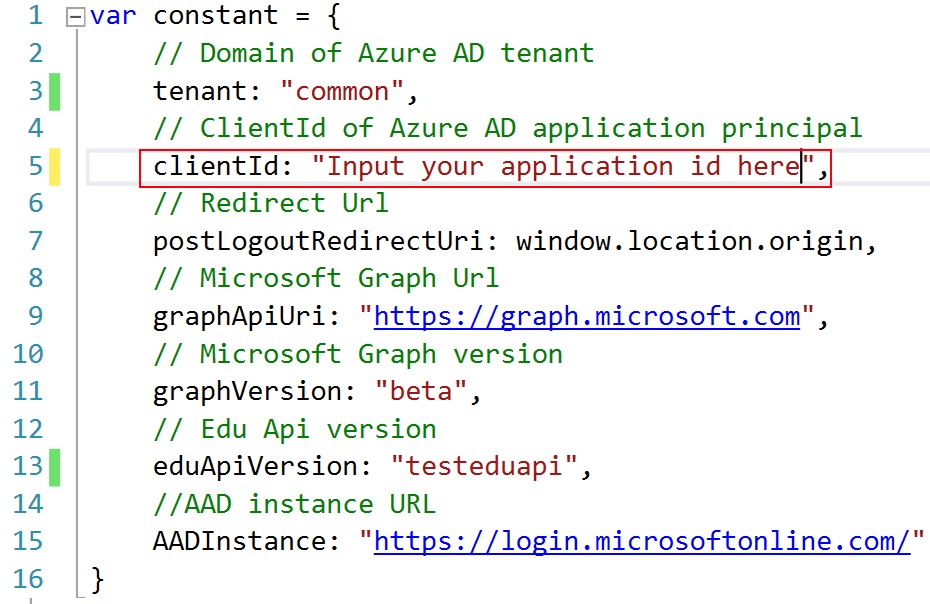
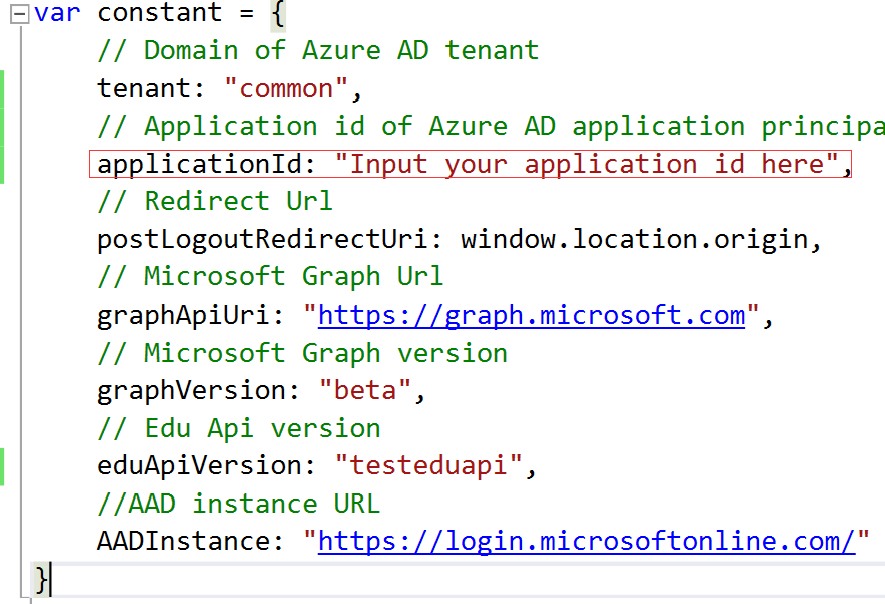
Update doc per feedback.

diff --git a/src/ShareToTeams/scripts/consent.js b/src/ShareToTeams/scripts/consent.js
@@ -1,7 +1,7 @@
 $(function () {
 
     $("#btnConsent").click(function () {
-        var url = constant.AADInstance + constant.tenant + "/oauth2/authorize?response_type=id_token&client_id=" + constant.clientId + "&redirect_uri=" + constant.postLogoutRedirectUri + "&state=" + guid() + "&client-request-id=" + guid() + "&x-client-SKU=Js&x-client-Ver=1.0.15&nonce=" + guid() + "&prompt=admin_consent";
+        var url = constant.AADInstance + constant.tenant + "/oauth2/authorize?response_type=id_token&client_id=" + constant.applicationId + "&redirect_uri=" + constant.postLogoutRedirectUri + "&state=" + guid() + "&client-request-id=" + guid() + "&x-client-SKU=Js&x-client-Ver=1.0.15&nonce=" + guid() + "&prompt=admin_consent";
         window.location.href = url;
     });
 

diff --git a/src/ShareToTeams/scripts/constant.js b/src/ShareToTeams/scripts/constant.js
@@ -1,8 +1,8 @@
 var constant = {
     // Domain of Azure AD tenant
     tenant: "common",
-    // ClientId of Azure AD application principal
-    clientId: "5261f827-718e-4e42-8baa-c548b9a1e0f7",
+    // Application id of Azure AD application principal
+    applicationId: "Input your application id here",
     // Redirect Url
     postLogoutRedirectUri: window.location.origin,
     // Microsoft Graph Url

diff --git a/src/ShareToTeams/scripts/sharetoteams.js b/src/ShareToTeams/scripts/sharetoteams.js
@@ -2,7 +2,7 @@
     // Create config and get AuthenticationContext
     window.config = {
         tenant: constant.tenant,
-        clientId: constant.clientId,
+        clientId: constant.applicationId,
         postLogoutRedirectUri: constant.postLogoutRedirectUri,
         cacheLocation: "localStorage",
         accessToken: "",

diff --git a/README.md b/README.md
@@ -26,7 +26,7 @@ The sample demonstrates:
 
 **Deploying and running this sample requires**:
 * An Azure subscription with permissions to register a new application, and deploy the web app.
-* SDS enabled is a prereq.  The user can use SDS, Teams or the Edu API to create Teams.  
+* Teacher must have associated classes to share as an Assignment.
 * An O365 Education tenant with Microsoft School Data Sync enabled
     * One of the following browsers: Edge, Internet Explorer 9, Safari 5.0.6, Firefox 5, Chrome 13, or a later version of one of these browsers.
       Additionally: Developing/running this sample locally requires the following:  
@@ -47,7 +47,7 @@ The sample demonstrates:
 
 4. Input a **Name**, and select **Web app / API** as **Application Type**.
 
-   Input **Sign-on URL**: https://localhost:44311/. This URL and port can be any that make sense.  In this demo we shows how to run the app locally, and the local site port is 44311.
+   Input **Sign-on URL**: https://localhost:44311/. In this example we will be running code locally on your machine.  You will need to update the port to be the one Visual Studio uses later in this example.
 
    ![](Images/aad-create-app-02.png)
 
@@ -73,7 +73,7 @@ The sample demonstrates:
 
      | API             | Application Permissions | Delegated Permissions                    |
      | --------------- | ----------------------- | ---------------------------------------- |
-     | Microsoft Graph | N/A                     | Sign in and read user profile<br/>Read all users' full profiles<br/>Read and write all groups<br/>Read a limited subset of users' view of the roster<br/>Read and write users' class assignments and their grades |
+     | Microsoft Graph | N/A                     | Sign in and read user profile<br/>Read all users' full profiles<br/>Read and write all groups<br/>Read a limited subset of users' view of the roster<br/> Read and write users' class assignments without grades |
 
      ![](/Images/aad-create-app-06.png)
 
@@ -89,9 +89,9 @@ The sample demonstrates:
 
      Click **Save**, then copy aside the **VALUE** of the key. 
 
-   Close the Settings window.
+   
 
-8. Click **Reply URLs**. Add **https://localhost:44311/**  and **https://localhost:44311/views/sharetoteams.html** to it. Make sure replace **yoursiteurl** to the real URL.
+8. Click **Reply URLs**. Add **https://localhost:44311/**  and **https://localhost:44311/views/sharetoteams.html** to it. Replace **https://localhost:44311/** to be the one Visual Studio uses.
 
    ![](Images/aad-create-app-09.png)
 
@@ -121,7 +121,7 @@ Debug the **ShareToTeams**:
 
    ![](Images/proj01.png)
 
-   - **clientId**: use the application Id of the app registration you created earlier.
+   - **applicationId**: use the application Id of the app registration you created earlier.
 
      ![](/Images/aad-create-app-04.png)
 
@@ -150,7 +150,7 @@ The demo is made by pure JavaScript.
 
 ### /scripts/constant.js
 
-This file contains constant parameters like **clientId**, **teanant**, **graphApiUri**.
+This file contains constant parameters like **applicationId**, **teanant**, **graphApiUri**.
 
 ### /scripts/platform.js
 
